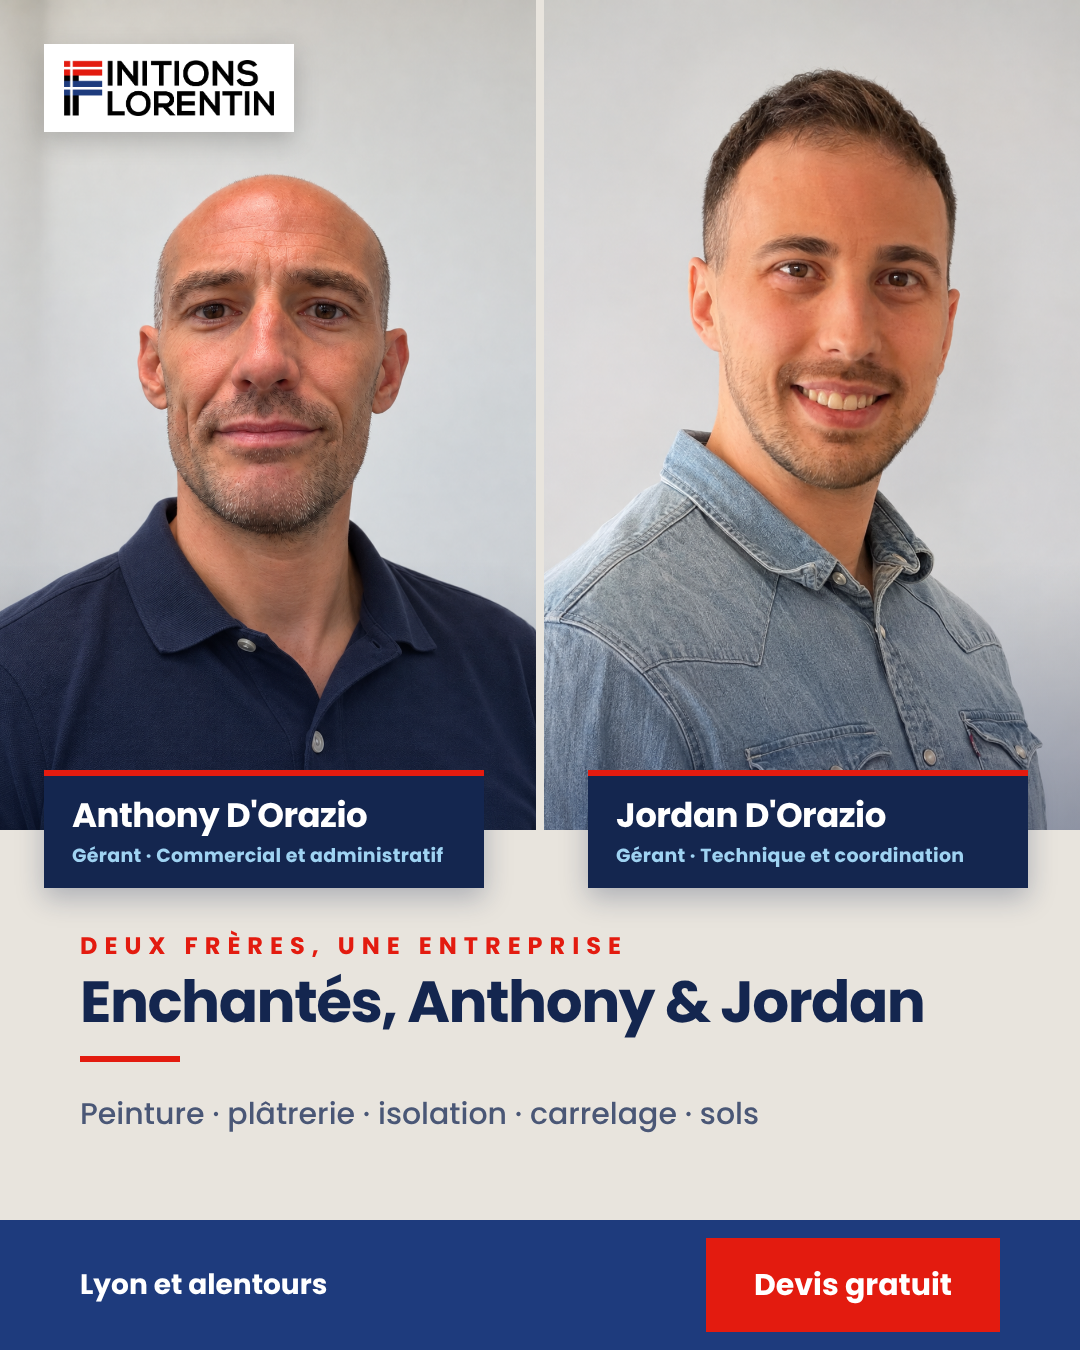
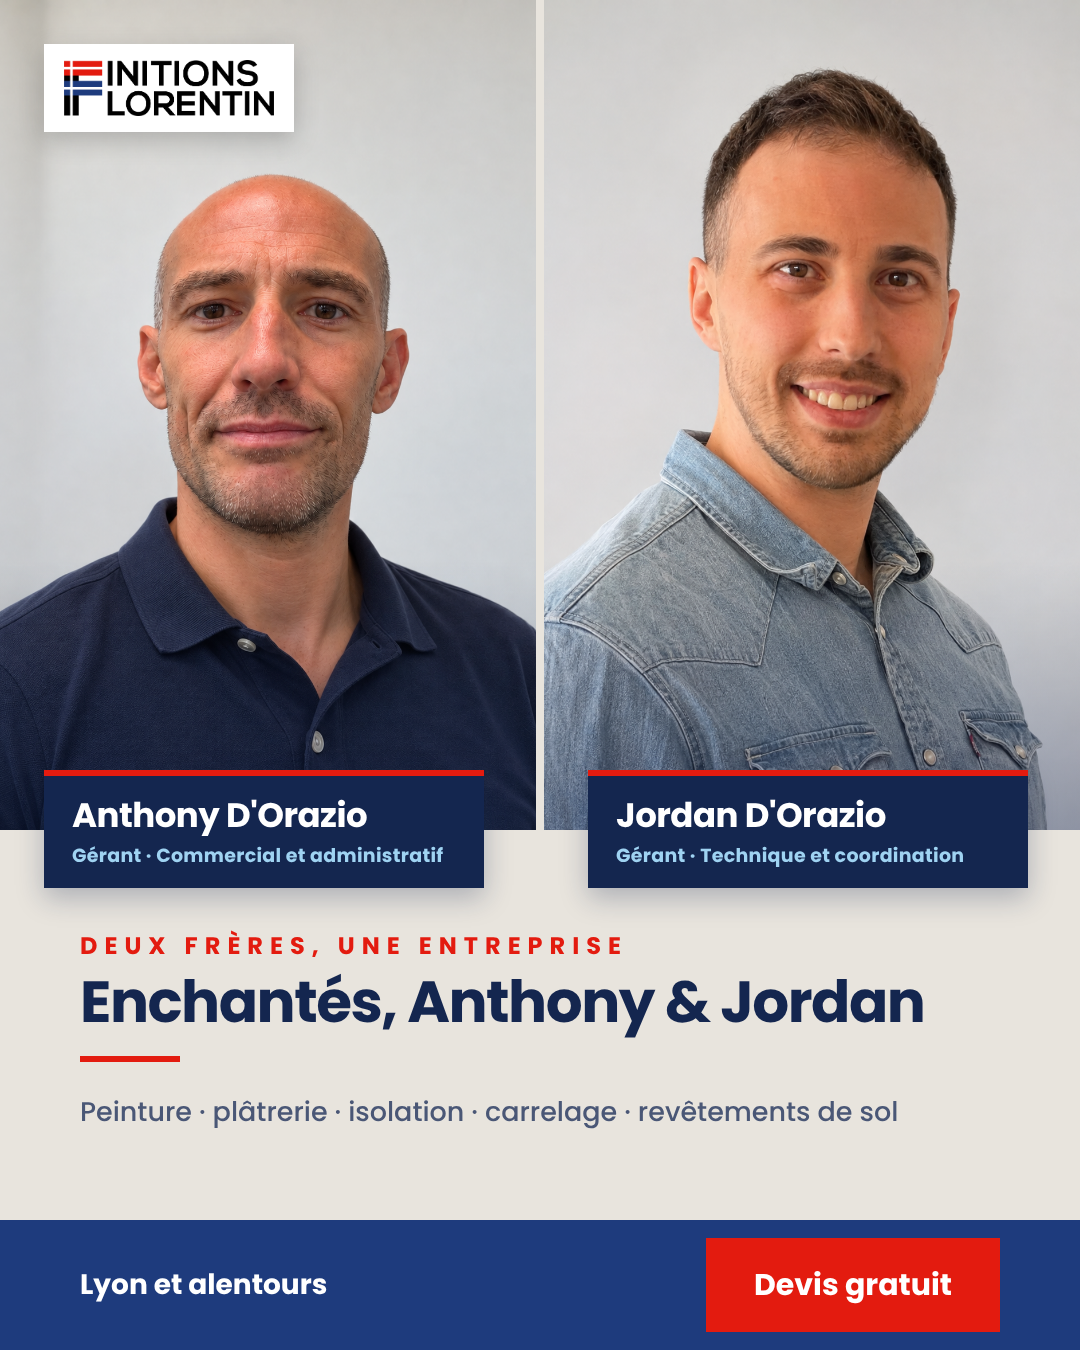
Duo: revêtements de sol
Claude-Session: https://claude.ai/code/session_01LyxsXe8xqb1EZ7c4QQAmih

Changed region(s): [[0.0611, 0.8089, 0.825, 0.84]]

diff --git a/tools/duo_equipe.py b/tools/duo_equipe.py
@@ -15,7 +15,7 @@ def html(a,j):
 .k{{position:absolute;left:80px;top:928px;font-size:24px;font-weight:700;letter-spacing:7px;color:{T["k"]}}}
 .t{{position:absolute;left:80px;top:972px;width:940px;white-space:nowrap;font-size:58px;line-height:1.05;font-weight:800;letter-spacing:-1.5px}}
 .rule{{position:absolute;left:80px;top:1056px;width:100px;height:6px;background:#E31B0F}}
-.s{{position:absolute;left:80px;top:1094px;width:920px;font-size:30px;line-height:1.35;font-weight:500;color:{T["v"]}}}
+.s{{position:absolute;left:80px;top:1094px;width:940px;white-space:nowrap;font-size:27px;line-height:1.35;font-weight:500;color:{T["v"]}}}
 .foot{{position:absolute;left:0;right:0;bottom:0;height:130px;background:{T["foot"]};display:flex;justify-content:space-between;align-items:center;padding:0 80px}}
 .fl{{font-size:28px;font-weight:700;color:{T["fl"]}}}.btn{{background:{T["btn"]};color:{T["btnt"]};font-size:30px;font-weight:800;padding:24px 48px}}</style>
 <body><img class="p" style="left:0" src="{b(a)}"><img class="p" style="left:544px" src="{b(j)}"><div class="g" style="left:0"></div><div class="g" style="left:544px"></div>
@@ -23,7 +23,7 @@ def html(a,j):
 <div class="n" style="left:44px"><b>Anthony D'Orazio</b><small>Gérant · Commercial et administratif</small></div>
 <div class="n" style="left:588px"><b>Jordan D'Orazio</b><small>Gérant · Technique et coordination</small></div>
 <div class="k">DEUX FRÈRES, UNE ENTREPRISE</div><div class="t">Enchantés, Anthony &amp; Jordan</div><div class="rule"></div>
-<div class="s">Peinture · plâtrerie · isolation · carrelage · sols</div>
+<div class="s">Peinture · plâtrerie · isolation · carrelage · revêtements de sol</div>
 <div class="foot"><div class="fl">Lyon et alentours</div><div class="btn">Devis gratuit</div></div>'''
 async def main(a,j,out):
     from playwright.async_api import async_playwright
